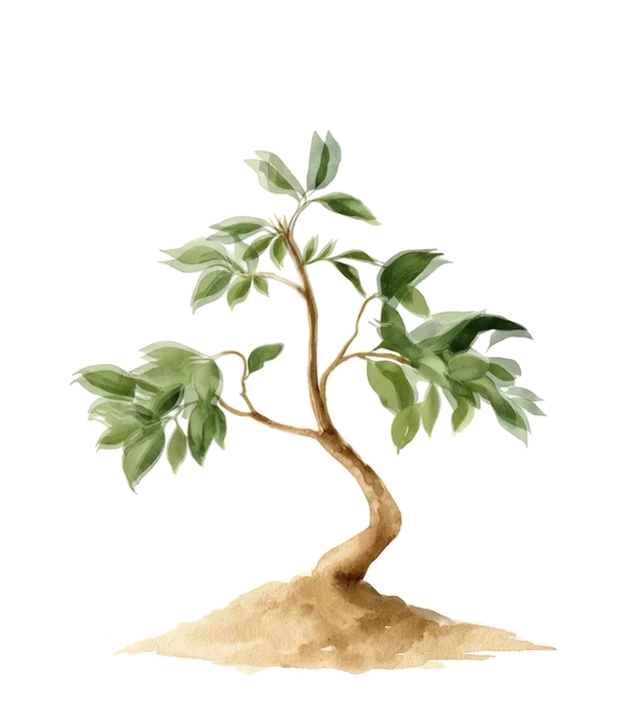
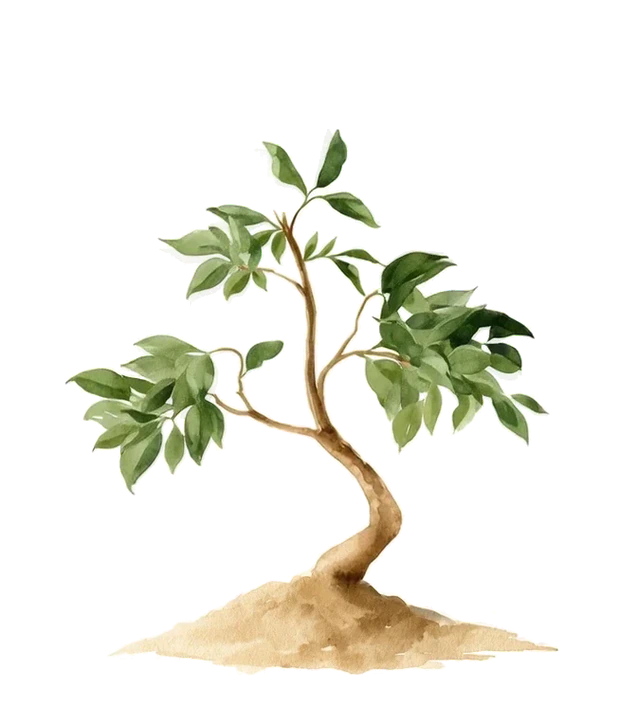
fix(app): Garden2 mandarin stage 10 is a solid frame (R559); stepping stones out of the plate (R560)
Stage 10 was chain frame f0469, mid-crossfade (ghosted leaves); now f0478.
Its fruit spots re-measured. Dev stages screen starts with no forced fruit.

diff --git a/app/src/garden2/layout.ts b/app/src/garden2/layout.ts
@@ -13,7 +13,7 @@ export const OVERLAYS = {"stand": {"file": "stand.png", "x": 1279, "y": 195, "w"
 /** The hit grid: CELL canvas px per cell; per plant per stage, row-major bits (MSB first) over its box, set where the layer is opaque. */
 export const HIT_CELL = 16
 /** R533: fruit (mandarin) and flower (store) spots per stage, in the tree's box px; r = the sprite's radius (drawn 2r square). */
-export const SPOTS: Record<'mandarin' | 'store', Record<number, { r: number; at: [number, number][] }>> = {"mandarin": {"1": {"r": 0, "at": []}, "2": {"r": 0, "at": []}, "3": {"r": 11.0, "at": [[361, 287], [392, 306]]}, "4": {"r": 11.0, "at": [[383, 329], [264, 315]]}, "5": {"r": 11.8, "at": [[266, 305], [407, 332], [197, 316]]}, "6": {"r": 11.8, "at": [[315, 280], [184, 352], [440, 312]]}, "7": {"r": 12.7, "at": [[241, 308], [152, 404], [388, 295], [185, 372]]}, "8": {"r": 12.7, "at": [[269, 334], [88, 440], [484, 355], [203, 429]]}, "9": {"r": 13.7, "at": [[364, 377], [108, 434], [495, 403], [216, 402], [415, 433]]}, "10": {"r": 13.7, "at": [[274, 349], [533, 410], [104, 443], [396, 432], [216, 444]]}, "11": {"r": 14.8, "at": [[290, 353], [540, 396], [80, 415], [409, 422], [198, 429], [153, 302], [450, 286]]}, "12": {"r": 15.9, "at": [[305, 311], [75, 424], [537, 396], [397, 420], [202, 392], [446, 286], [105, 275], [126, 356], [460, 367]]}, "13": {"r": 15.9, "at": [[302, 293], [581, 333], [57, 406], [429, 402], [195, 383], [103, 257], [453, 253], [491, 336], [344, 372]]}, "14": {"r": 17.3, "at": [[303, 280], [592, 323], [45, 398], [432, 396], [191, 376], [97, 248], [457, 239], [497, 326], [342, 367], [110, 337], [199, 272], [410, 312]]}}, "store": {"1": {"r": 0, "at": []}, "2": {"r": 0, "at": []}, "3": {"r": 0, "at": []}, "4": {"r": 0, "at": []}, "5": {"r": 0, "at": []}, "6": {"r": 10.8, "at": [[280, 380], [395, 407]]}, "7": {"r": 10.8, "at": [[286, 366], [402, 379]]}, "8": {"r": 11.8, "at": [[295, 360], [412, 367], [191, 395]]}, "9": {"r": 11.8, "at": [[272, 296], [449, 371], [173, 377]]}, "10": {"r": 12.8, "at": [[290, 289], [450, 337], [103, 301], [202, 386]]}, "11": {"r": 14.0, "at": [[286, 276], [501, 299], [93, 289], [195, 370], [392, 305]]}, "12": {"r": 15.2, "at": [[303, 239], [75, 264], [499, 282], [196, 311], [393, 297], [302, 327], [157, 232]]}, "13": {"r": 15.2, "at": [[319, 253], [48, 280], [571, 271], [201, 350], [439, 343], [152, 255], [463, 230]]}, "14": {"r": 18.1, "at": [[320, 274], [40, 351], [607, 292], [458, 365], [201, 387], [147, 251], [484, 230], [229, 297], [411, 286], [127, 337], [543, 350], [287, 350]]}}}
+export const SPOTS: Record<'mandarin' | 'store', Record<number, { r: number; at: [number, number][] }>> = {"mandarin": {"1": {"r": 0, "at": []}, "2": {"r": 0, "at": []}, "3": {"r": 11.0, "at": [[361, 287], [392, 306]]}, "4": {"r": 11.0, "at": [[383, 329], [264, 315]]}, "5": {"r": 11.8, "at": [[266, 305], [407, 332], [197, 316]]}, "6": {"r": 11.8, "at": [[315, 280], [184, 352], [440, 312]]}, "7": {"r": 12.7, "at": [[241, 308], [152, 404], [388, 295], [185, 372]]}, "8": {"r": 12.7, "at": [[269, 334], [88, 440], [484, 355], [203, 429]]}, "9": {"r": 13.7, "at": [[364, 377], [108, 434], [495, 403], [216, 402], [415, 433]]}, "10": {"r": 13.7, "at": [[275, 346], [533, 408], [103, 443], [395, 415], [216, 442]]}, "11": {"r": 14.8, "at": [[290, 353], [540, 396], [80, 415], [409, 422], [198, 429], [153, 302], [450, 286]]}, "12": {"r": 15.9, "at": [[305, 311], [75, 424], [537, 396], [397, 420], [202, 392], [446, 286], [105, 275], [126, 356], [460, 367]]}, "13": {"r": 15.9, "at": [[302, 293], [581, 333], [57, 406], [429, 402], [195, 383], [103, 257], [453, 253], [491, 336], [344, 372]]}, "14": {"r": 17.3, "at": [[303, 280], [592, 323], [45, 398], [432, 396], [191, 376], [97, 248], [457, 239], [497, 326], [342, 367], [110, 337], [199, 272], [410, 312]]}}, "store": {"1": {"r": 0, "at": []}, "2": {"r": 0, "at": []}, "3": {"r": 0, "at": []}, "4": {"r": 0, "at": []}, "5": {"r": 0, "at": []}, "6": {"r": 10.8, "at": [[280, 380], [395, 407]]}, "7": {"r": 10.8, "at": [[286, 366], [402, 379]]}, "8": {"r": 11.8, "at": [[295, 360], [412, 367], [191, 395]]}, "9": {"r": 11.8, "at": [[272, 296], [449, 371], [173, 377]]}, "10": {"r": 12.8, "at": [[290, 289], [450, 337], [103, 301], [202, 386]]}, "11": {"r": 14.0, "at": [[286, 276], [501, 299], [93, 289], [195, 370], [392, 305]]}, "12": {"r": 15.2, "at": [[303, 239], [75, 264], [499, 282], [196, 311], [393, 297], [302, 327], [157, 232]]}, "13": {"r": 15.2, "at": [[319, 253], [48, 280], [571, 271], [201, 350], [439, 343], [152, 255], [463, 230]]}, "14": {"r": 18.1, "at": [[320, 274], [40, 351], [607, 292], [458, 365], [201, 387], [147, 251], [484, 230], [229, 297], [411, 286], [127, 337], [543, 350], [287, 350]]}}}
 /** R534/R535: decor the app draws only at times, in canvas px (the basket while SKR waits out its 48 h unstake). */
 export const DECOR = {"basket": {"x": 395, "y": 705, "w": 85, "h": 85}, "stake": {"x": 545, "y": 770, "w": 140, "h": 80}} as const
[2 lines of base64/hex data omitted]

diff --git a/app/src/app/dev-garden2.tsx b/app/src/app/dev-garden2.tsx
@@ -17,7 +17,7 @@ export default function DevGarden2() {
   const { width } = useWindowDimensions()
   const { colors, dark } = useTheme()
   const [stages, setStages] = useState<Stages>(allStages(0))
-  const [fruit, setFruit] = useState(12) // R533: earned fruit/flowers on both trees (12 = the ladder's cap)
+  const [fruit, setFruit] = useState(0) // R533: forced fruit/flowers on both trees (the app draws the earned count; 12 = the ladder's cap)
   const [basket, setBasket] = useState(false) // R535
   if (typeof __DEV__ === 'undefined' || !__DEV__) return <Redirect href="/" />
   const set = (p: Plant2, s: number) => setStages((old) => ({ ...old, [p]: clampStage(p, s) }))
